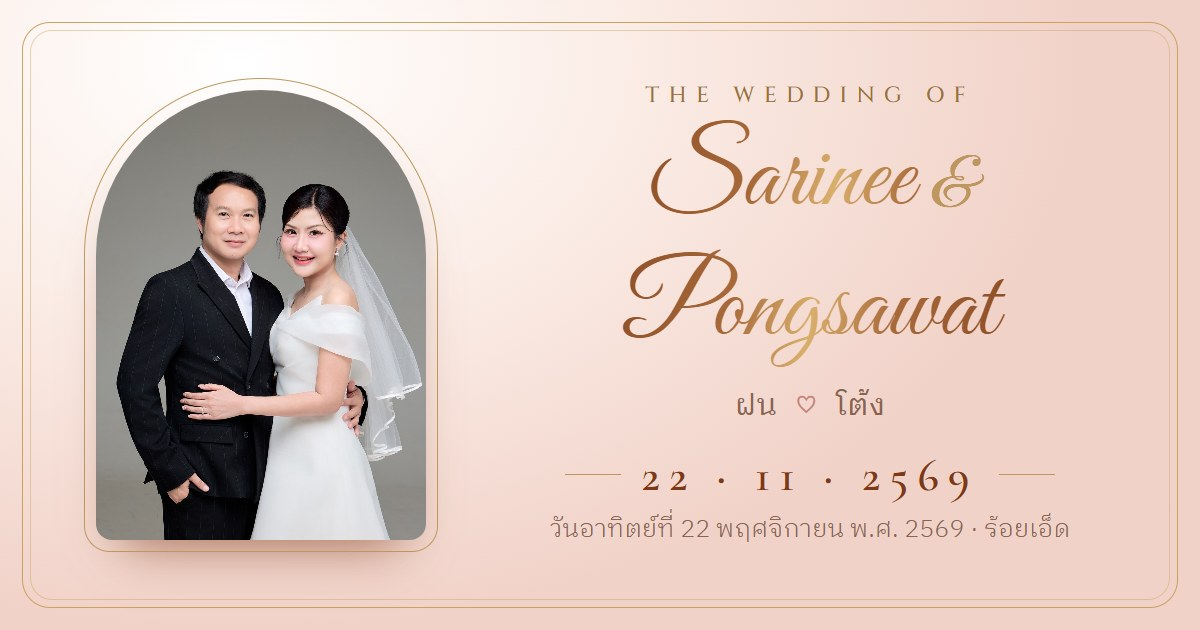
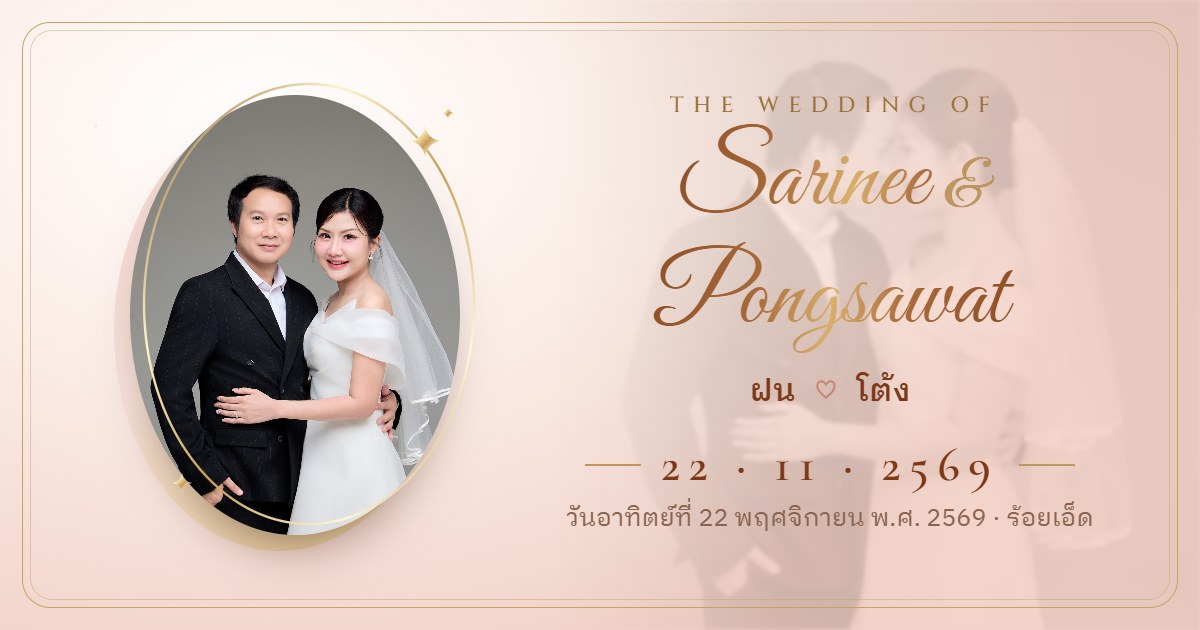
Add files via upload

Changed region(s): [[0.0617, 0.1206, 0.4008, 0.9048], [0.5242, 0.0905, 0.8633, 0.6937], [0.4625, 0.7238, 0.925, 1.0]]

diff --git a/wedding-invitation/design/og-template.html b/wedding-invitation/design/og-template.html
@@ -1,39 +1,68 @@
 <!DOCTYPE html>
-<!-- Source for the link-preview image. Render at 1200x630 and save as assets/images/og.jpg:
-     msedge --headless=new --window-size=1200,630 --screenshot=og.png design/og-template.html -->
+<!-- Source for the link-preview image shown in LINE / Facebook. Render at 1200x630 and save as assets/images/og.jpg
+     (any headless Chromium screenshot works; keep the important content away from the outer 60px — some apps crop) -->
 <html lang="th">
 <head>
 <meta charset="utf-8">
-<link href="https://fonts.googleapis.com/css2?family=Cinzel:wght@500&family=Cormorant+Garamond:wght@600&family=Great+Vibes&family=IBM+Plex+Sans+Thai+Looped:wght@300;400&display=block" rel="stylesheet">
+<link href="https://fonts.googleapis.com/css2?family=Cinzel:wght@500&family=Cormorant+Garamond:wght@600&family=Great+Vibes&family=IBM+Plex+Sans+Thai+Looped:wght@300;400;500&display=block" rel="stylesheet">
 <style>
   html, body { margin: 0; width: 1200px; height: 630px; overflow: hidden; }
   body {
-    position: relative; display: flex; align-items: center; gap: 64px; padding: 0 70px 0 96px; box-sizing: border-box;
+    position: relative; display: flex; align-items: center; gap: 70px; padding: 0 70px 0 130px; box-sizing: border-box;
     font-family: 'IBM Plex Sans Thai Looped', sans-serif; color: #7D3818;
-    background: radial-gradient(70% 90% at 20% 10%, #FFFFFF 0%, #FBEDE7 45%, #F1D2C8 100%);
+    background: radial-gradient(70% 90% at 22% 20%, #FFFFFF 0%, #FBEDE7 45%, #F1D2C8 100%);
   }
-  body::before { content: ''; position: absolute; inset: 22px; border: 1.5px solid #C9A262; border-radius: 28px; }
-  body::after { content: ''; position: absolute; inset: 30px; border: 1px solid rgba(201, 162, 98, .45); border-radius: 22px; }
-  .arch { position: relative; flex: none; width: 330px; height: 450px; }
-  .arch::before { content: ''; position: absolute; inset: -12px; border: 1.5px solid #BE975E; border-radius: 177px 177px 26px 26px; }
-  .arch img { width: 100%; height: 100%; object-fit: cover; object-position: 50% 24%; border-radius: 165px 165px 16px 16px; display: block; box-shadow: 0 30px 50px -26px rgba(125, 56, 24, .7); }
-  .panel { flex: 1; display: flex; flex-direction: column; align-items: center; gap: 6px; text-align: center; }
-  .eyebrow { font-family: 'Cinzel', serif; font-weight: 500; font-size: 22px; letter-spacing: .42em; color: #9A7038; }
+  /* faint photo wash on the right, like the opening screen */
+  .wash { position: absolute; inset: 0 0 0 46%; background: url(../assets/couple/003.jpg) 50% 25% / cover; mix-blend-mode: luminosity; opacity: .14; filter: blur(2px);
+    -webkit-mask-image: linear-gradient(90deg, transparent, #000 35%); mask-image: linear-gradient(90deg, transparent, #000 35%); }
+  .frame { position: absolute; inset: 22px; border: 1.5px solid #C9A262; border-radius: 28px; }
+  .frame::after { content: ''; position: absolute; inset: 7px; border: 1px solid rgba(201, 162, 98, .45); border-radius: 22px; }
+  .dust { position: absolute; inset: 0; background:
+    radial-gradient(2px 2px at 8% 20%, #E8C77E, transparent 60%), radial-gradient(1.5px 1.5px at 38% 12%, #F6E3B0, transparent 60%),
+    radial-gradient(2.5px 2.5px at 92% 18%, #E8C77E, transparent 60%), radial-gradient(1.5px 1.5px at 58% 88%, #F6E3B0, transparent 60%),
+    radial-gradient(2px 2px at 84% 80%, #E8C77E, transparent 60%), radial-gradient(1.5px 1.5px at 12% 86%, #F6E3B0, transparent 60%); }
+
+  /* layered oval portrait — same as the card cover */
+  .portrait { position: relative; flex: none; width: 330px; height: 440px; }
+  .portrait::before { content: ''; position: absolute; inset: 0; border-radius: 50%; transform: translate(-16px, 16px);
+    background: linear-gradient(150deg, #F2D2C8 0%, #F8E3DD 45%, #E8CF95 100%); }
+  .portrait img { position: relative; width: 100%; height: 100%; object-fit: cover; object-position: 50% 22%; border-radius: 50%; display: block;
+    box-shadow: 0 30px 50px -24px rgba(74, 36, 20, .6); }
+  .portrait svg { position: absolute; left: -40px; top: -40px; width: 410px; height: 520px; overflow: visible; }
+
+  .panel { position: relative; flex: 1; display: flex; flex-direction: column; align-items: center; gap: 4px; text-align: center; }
+  .eyebrow { font-family: 'Cinzel', serif; font-weight: 500; font-size: 22px; letter-spacing: .42em; padding-left: .42em; color: #9A7038; }
   .names {
-    font-family: 'Great Vibes', cursive; font-size: 104px; line-height: 1.25; padding: 0 12px;
+    font-family: 'Great Vibes', cursive; font-size: 98px; line-height: 1.2; padding: 0 14px;
     background: linear-gradient(100deg, #6E2F12 0%, #A8693A 40%, #D9AF6C 52%, #A8693A 64%, #6E2F12 100%);
     -webkit-background-clip: text; background-clip: text; color: transparent;
   }
-  .names em { font-style: normal; font-size: 70px; color: #BE975E; -webkit-text-fill-color: #BE975E; }
-  .nick { font-size: 30px; font-weight: 400; color: #8A6450; }
+  .names em { font-style: normal; font-size: 66px; color: #BE975E; -webkit-text-fill-color: #BE975E; }
+  .nick { margin-top: 2px; font-size: 32px; font-weight: 500; color: #7D3818; }
   .nick i { font-style: normal; color: #C98476; padding: 0 12px; }
-  .date { margin-top: 10px; display: flex; align-items: center; gap: 20px; font-family: 'Cormorant Garamond', serif; font-weight: 600; font-size: 46px; letter-spacing: .2em; }
+  .date { margin-top: 14px; display: flex; align-items: center; gap: 20px; font-family: 'Cormorant Garamond', serif; font-weight: 600; font-size: 48px; letter-spacing: .18em; color: #7D3818; }
   .date::before, .date::after { content: ''; width: 56px; height: 1.5px; background: #BE975E; }
-  .th { font-weight: 300; font-size: 25px; color: #8A6450; }
+  .th { font-weight: 400; font-size: 25px; color: #8A6450; }
 </style>
 </head>
 <body>
-  <div class="arch"><img src="../assets/couple/002.jpg" alt=""></div>
+  <div class="wash"></div>
+  <div class="dust"></div>
+  <div class="frame"></div>
+  <div class="portrait">
+    <img src="../assets/couple/002.jpg" alt="">
+    <svg viewBox="0 0 410 520" aria-hidden="true">
+      <defs>
+        <linearGradient id="gold" x1="0" y1="0" x2="1" y2="1">
+          <stop offset="0" stop-color="#8A5A24"/><stop offset=".3" stop-color="#FFF3CC"/><stop offset=".55" stop-color="#C99D55"/><stop offset=".8" stop-color="#FFF6DA"/><stop offset="1" stop-color="#A87838"/>
+        </linearGradient>
+      </defs>
+      <ellipse cx="219" cy="249" rx="165" ry="220" fill="none" stroke="url(#gold)" stroke-width="2.4"/>
+      <path fill="url(#gold)" d="M335 70 Q337 84 351 86 Q337 88 335 102 Q333 88 319 86 Q333 84 335 70 Z"/>
+      <path fill="url(#gold)" d="M358 52 Q359 57 364 58 Q359 59 358 64 Q357 59 352 58 Q357 57 358 52 Z"/>
+      <path fill="url(#gold)" d="M92 418 Q93 427 102 428 Q93 429 92 438 Q91 429 82 428 Q91 427 92 418 Z"/>
+    </svg>
+  </div>
   <div class="panel">
     <div class="eyebrow">THE WEDDING OF</div>
     <div class="names">Sarinee <em>&amp;</em> Pongsawat</div>

diff --git a/wedding-invitation/index.html b/wedding-invitation/index.html
@@ -9,7 +9,19 @@
 <meta property="og:type" content="website">
 <meta property="og:title" content="Sarinee &amp; Pongsawat · ฝน &amp; โต้ง · 22.11.2569">
 <meta property="og:description" content="ขอเรียนเชิญร่วมเป็นเกียรติในงานฉลองมงคลสมรส ฝน &amp; โต้ง · วันอาทิตย์ที่ 22 พฤศจิกายน 2569 · ร้อยเอ็ด">
-<!-- เมื่อมีที่อยู่เว็บจริงแล้ว ให้เพิ่ม og:url และ og:image (ต้องเป็น URL เต็ม ชี้ไปที่ assets/images/og.jpg) -->
+<meta property="og:site_name" content="Sarinee &amp; Pongsawat Wedding">
+<meta property="og:locale" content="th_TH">
+<!-- og:site — เขียนโดย tools/set_site_url.py (อย่าแก้ด้วยมือ) -->
+<meta property="og:url" content="https://tongfonsarinee.github.io/fon-tong_wedding/">
+<meta property="og:image" content="https://tongfonsarinee.github.io/fon-tong_wedding/assets/images/og.jpg?v=c6ca23e4">
+<meta property="og:image:secure_url" content="https://tongfonsarinee.github.io/fon-tong_wedding/assets/images/og.jpg?v=c6ca23e4">
+<meta property="og:image:type" content="image/jpeg">
+<meta property="og:image:width" content="1200">
+<meta property="og:image:height" content="630">
+<meta property="og:image:alt" content="ฝนและโต้ง · งานมงคลสมรส 22.11.2569">
+<meta name="twitter:image" content="https://tongfonsarinee.github.io/fon-tong_wedding/assets/images/og.jpg?v=c6ca23e4">
+<link rel="canonical" href="https://tongfonsarinee.github.io/fon-tong_wedding/">
+<!-- /og:site -->
 <meta name="twitter:card" content="summary_large_image">
 <link rel="icon" href="assets/brand/favicon.svg" type="image/svg+xml">
 <link rel="alternate icon" href="assets/brand/favicon.png" type="image/png">
@@ -19,13 +31,13 @@
 <link rel="preconnect" href="https://fonts.gstatic.com" crossorigin>
 <link href="https://fonts.googleapis.com/css2?family=Cinzel:wght@400;500;600&family=Cormorant+Garamond:ital,wght@0,400;0,500;0,600;1,400;1,500&family=Great+Vibes&family=IBM+Plex+Sans+Thai+Looped:wght@200;300;400;500;600&display=swap" rel="stylesheet">
 <link rel="preload" as="image" href="assets/couple/002.jpg">
-<link rel="stylesheet" href="css/base.css?v=202610051414">
-<link rel="stylesheet" href="css/intro.css?v=202610051414">
-<link rel="stylesheet" href="css/hero.css?v=202610051414">
-<link rel="stylesheet" href="css/sections.css?v=202610051414">
-<link rel="stylesheet" href="css/gallery.css?v=202610051414">
-<link rel="stylesheet" href="css/effects.css?v=202610051414">
-<link rel="stylesheet" href="css/features.css?v=202610051414">
+<link rel="stylesheet" href="css/base.css?v=202610051431">
+<link rel="stylesheet" href="css/intro.css?v=202610051431">
+<link rel="stylesheet" href="css/hero.css?v=202610051431">
+<link rel="stylesheet" href="css/sections.css?v=202610051431">
+<link rel="stylesheet" href="css/gallery.css?v=202610051431">
+<link rel="stylesheet" href="css/effects.css?v=202610051431">
+<link rel="stylesheet" href="css/features.css?v=202610051431">
 </head>
 <body>
 <!-- Shared SVG: gradients + ornaments (laurel with heart, corner flourish) -->
@@ -536,25 +548,25 @@
   <div class="lightbox__count"></div>
 </div>
 
-<script src="js/config.js?v=202610051414"></script>
-<script src="js/guest.js?v=202610051414"></script>
-<script src="js/api.js?v=202610051414"></script>
-<script src="js/audio.js?v=202610051414"></script>
-<script src="js/motion.js?v=202610051414"></script>
-<script src="js/dayof.js?v=202610051414"></script>
-<script src="js/countdown.js?v=202610051414"></script>
-<script src="js/scroll.js?v=202610051414"></script>
-<script src="js/particles.js?v=202610051414"></script>
-<script src="js/intro.js?v=202610051414"></script>
-<script src="js/handwriting.js?v=202610051414"></script>
-<script src="js/gallery.js?v=202610051414"></script>
-<script src="js/book.js?v=202610051414"></script>
-<script src="js/scratch.js?v=202610051414"></script>
-<script src="js/effects.js?v=202610051414"></script>
-<script src="js/lanterns.js?v=202610051414"></script>
-<script src="js/gift.js?v=202610051414"></script>
-<script src="js/booth-photo.js?v=202610051414"></script>
-<script src="js/booth.js?v=202610051414"></script>
-<script src="js/dock.js?v=202610051414"></script>
+<script src="js/config.js?v=202610051431"></script>
+<script src="js/guest.js?v=202610051431"></script>
+<script src="js/api.js?v=202610051431"></script>
+<script src="js/audio.js?v=202610051431"></script>
+<script src="js/motion.js?v=202610051431"></script>
+<script src="js/dayof.js?v=202610051431"></script>
+<script src="js/countdown.js?v=202610051431"></script>
+<script src="js/scroll.js?v=202610051431"></script>
+<script src="js/particles.js?v=202610051431"></script>
+<script src="js/intro.js?v=202610051431"></script>
+<script src="js/handwriting.js?v=202610051431"></script>
+<script src="js/gallery.js?v=202610051431"></script>
+<script src="js/book.js?v=202610051431"></script>
+<script src="js/scratch.js?v=202610051431"></script>
+<script src="js/effects.js?v=202610051431"></script>
+<script src="js/lanterns.js?v=202610051431"></script>
+<script src="js/gift.js?v=202610051431"></script>
+<script src="js/booth-photo.js?v=202610051431"></script>
+<script src="js/booth.js?v=202610051431"></script>
+<script src="js/dock.js?v=202610051431"></script>
 </body>
 </html>

diff --git a/wedding-invitation/js/intro.js b/wedding-invitation/js/intro.js
@@ -1,8 +1,7 @@
 // Opening screen. Tap the wax seal (or the button):
 //   seal cracks (music + sound + haptics start) → flap opens → letter rises
 //   → gold dust gathers into the S·P monogram and bursts into petals (js/particles.js)
-//   → 6-second cinematic photo trailer → fly into the card.
-// Returning guests get the short version (envelope → card). "ข้าม" skips at any point.
+//   → 6-second cinematic photo trailer → fly into the card. Plays in full on every visit; "ข้าม" skips it.
 (function () {
   'use strict';
 
@@ -15,14 +14,13 @@
   var PETAL_LIGHT_RATIO = 0.4;
   var GOLD_DUST_COUNT = 14;
   var CARD_THEME_COLOR = '#F3D5CC';
-  var SEEN_KEY = 'ecard-seen';
 
   // ms after the tap — each step matches a transition in css/intro.css
   var STEP_FLAP_OPEN = 380;
   var STEP_FLAP_BEHIND = 780;  // flap has passed vertical: tuck it behind the letter
   var STEP_LETTER_OUT = 820;
   var STEP_MAGIC = 1650;       // first visit: gold dust rises out of the letter
-  var STEP_SHORT_FLY = 1950;   // returning visit: straight into the card
+  var STEP_SHORT_FLY = 1950;   // no particle support: straight into the card
   var SHOT_MS = 1150;          // each cinematic shot
   var TITLE_MS = 1700;         // closing title card
   var REMOVE_AFTER_FLY_MS = 900; // .intro opacity/transform transition
@@ -113,13 +111,6 @@
     startPetals();
   }
 
-  function hasSeen() {
-    try { return localStorage.getItem(SEEN_KEY) === '1'; } catch (e) { return false; }
-  }
-  function markSeen() {
-    try { localStorage.setItem(SEEN_KEY, '1'); } catch (e) { /* private mode */ }
-  }
-
   function initIntro() {
     var intro = document.getElementById('intro');
     var openBtn = document.getElementById('intro-open');
@@ -140,7 +131,7 @@
       spawn(sky, GLINT_COUNT, makeGlint);
     }
 
-    var shortVersion = hasSeen() || reduceMotion || !window.EcardParticles || !dust || !cinema;
+    var shortVersion = reduceMotion || !window.EcardParticles || !dust || !cinema;
     var shots = cinema ? Array.prototype.slice.call(cinema.querySelectorAll('.cinema__shot')) : [];
 
     // load the trailer photos while the guest looks at the envelope
@@ -171,7 +162,6 @@
       flown = true;
       timers.forEach(clearTimeout);
       if (particles) particles.stop();
-      markSeen();
       intro.classList.add('is-opening');
       var themeMeta = document.querySelector('meta[name="theme-color"]');
       if (themeMeta) themeMeta.setAttribute('content', CARD_THEME_COLOR);

diff --git a/wedding-invitation/tools/set_site_url.py b/wedding-invitation/tools/set_site_url.py
@@ -1,0 +1,47 @@
+"""ตั้งที่อยู่เว็บจริงของการ์ด เพื่อให้ส่งลิงก์ใน LINE / Facebook แล้วขึ้นรูปปก (og:image)
+
+    python tools/set_site_url.py https://<ชื่อ>.github.io/<repo>
+
+- เขียนแท็ก og:url / og:image / twitter:image แบบ URL เต็มลงใน index.html (ระหว่าง <!-- og:site --> ... <!-- /og:site -->)
+- ต่อท้ายรูปด้วย ?v=<รหัสของไฟล์> ให้ LINE ดึงรูปใหม่ทุกครั้งที่ assets/images/og.jpg เปลี่ยน
+- รันซ้ำได้ทุกครั้ง (เช่น หลังแก้รูปปก หรือย้ายเว็บ)
+"""
+import hashlib
+import re
+import sys
+from pathlib import Path
+
+OG_IMAGE = 'assets/images/og.jpg'
+OG_W, OG_H = 1200, 630
+
+root = Path(__file__).resolve().parents[1]
+sys.stdout.reconfigure(encoding='utf-8')
+if len(sys.argv) < 2:
+    raise SystemExit('ใส่ที่อยู่เว็บด้วย เช่น  python tools/set_site_url.py https://thonganek.github.io/wedding-fon-tong')
+site = sys.argv[1].strip().rstrip('/')
+if not re.match(r'^https://[^\s/]+', site):
+    raise SystemExit('ที่อยู่เว็บต้องขึ้นต้นด้วย https://  (LINE ไม่แสดงรูปจากเว็บที่ไม่ใช่ https)')
+
+version = hashlib.md5((root / OG_IMAGE).read_bytes()).hexdigest()[:8]
+image = f'{site}/{OG_IMAGE}?v={version}'
+block = f'''<!-- og:site — เขียนโดย tools/set_site_url.py (อย่าแก้ด้วยมือ) -->
+<meta property="og:url" content="{site}/">
+<meta property="og:image" content="{image}">
+<meta property="og:image:secure_url" content="{image}">
+<meta property="og:image:type" content="image/jpeg">
+<meta property="og:image:width" content="{OG_W}">
+<meta property="og:image:height" content="{OG_H}">
+<meta property="og:image:alt" content="ฝนและโต้ง · งานมงคลสมรส 22.11.2569">
+<meta name="twitter:image" content="{image}">
+<link rel="canonical" href="{site}/">
+<!-- /og:site -->'''
+
+page = root / 'index.html'
+html = page.read_text(encoding='utf-8')
+html, found = re.subn(r'<!-- og:site.*?<!-- /og:site -->', lambda m: block, html, flags=re.S)
+if not found:
+    raise SystemExit('index.html: ไม่พบ <!-- og:site --> ... <!-- /og:site -->')
+page.write_text(html, encoding='utf-8', newline='\n')
+print(f'ตั้งที่อยู่เว็บเป็น {site}/')
+print(f'รูปปกพรีวิว: {image}')
+print('หลัง push ขึ้นเว็บแล้ว ถ้า LINE ยังขึ้นรูปเก่า ให้ล้างแคชที่ https://poker.line.naver.jp/')

diff --git a/wedding-invitation/README.md b/wedding-invitation/README.md
@@ -24,7 +24,7 @@
 
 1. **ฉากเปิด** พื้นหลังเป็นรูปคู่บ่าวสาวจางๆ ย้อมโทนชมพูทอง เปลี่ยนรูปทุก 6 วินาที · ซองชมพูผนึกตราครั่ง S·P → แตะตรา: ตราแตก (เสียง + สั่น + หัวใจ/คอนเฟตตี) → ฝาซองเปิด → การ์ดรูปคู่เลื่อนขึ้น
    → ผงทองหมุนเป็นเกลียวรวมเป็นโมโนแกรม S·P → ระเบิดเป็นกลีบดอก → **หนังสั้น 6 วินาที** (รูป 4 ช็อต + แถบดำแบบภาพยนตร์ + ชื่อปิดท้าย) → เข้าการ์ด
-   มีปุ่ม "ข้าม" ตลอด · **คนที่เคยเปิดแล้ว**จะได้ฉบับสั้น (ซอง → การ์ด) อัตโนมัติ
+   เล่นเต็มทุกครั้งที่เปิดการ์ด · มีปุ่ม "ข้าม" ตลอด
 2. **เพลง** กล่องดนตรี Canon in D (สังเคราะห์ในเบราว์เซอร์ ไม่ต้องมีไฟล์) เริ่มตอนแตะตรา · ปุ่มแผ่นเสียงมุมขวาบนเปิด/ปิด · หยุดเองเมื่อสลับแอป
 3. **หน้าปก** รูปทรงวงรี + วงรีสีแชมเปญชมพูวางเยื้องด้านหลัง + เส้นทองวงรีวางเยื้องพาดทับ มีแสงวิ่งรอบเส้น ·  ชื่อเขียนด้วย**หมึกทองทีละตัวอักษร**พร้อมปลายปากกาเรืองแสง (ใต้กรอบรูป)
    **เอียงมือถือ**แล้วภาพมีมิติ (รูป/กรอบ/ประกายขยับคนละระดับ) และตัวอักษรทองสะท้อนแสงตามมุม (iPhone ขออนุญาตตอนแตะตรา · คอมพิวเตอร์ใช้เมาส์)
@@ -129,6 +129,7 @@ wedding-invitation/
     ├── import_photos.py      นำรูปจาก ../Picture เข้าเว็บ + ตั้งหมายเลข
     ├── make_booth_photo.py   สร้างรูปคู่สำหรับกรอบ Photo Booth
     ├── apps-script.gs        โค้ด Google Apps Script สำหรับเก็บคำอวยพร
+    ├── set_site_url.py       ตั้งที่อยู่เว็บจริง → แท็กรูปปกตอนแชร์ลิงก์ (og:image)
     └── bump-version.sh       ใส่เลขเวอร์ชันให้ CSS/JS กันเบราว์เซอร์จำไฟล์เก่า
 ```
 
@@ -148,19 +149,26 @@ wedding-invitation/
 
 ## ขึ้นเว็บ (deploy)
 
-> **ระวัง:** โฟลเดอร์นี้คัดลอกมาจากการ์ดของ อ.ณัท & อ.โจ้ remote `origin` จึงยังชี้ไปที่ `Thonganek/wedding` (repo ของการ์ดคู่นั้น)
-> ถ้า push ตอนนี้ การ์ดของคู่นั้นจะถูกแทนที่ ให้สร้าง repo ใหม่สำหรับการ์ดนี้ก่อน แล้วเปลี่ยน remote:
->
-> ```sh
-> git remote set-url origin https://github.com/<user>/<repo-ใหม่>.git
-> ```
+Repo: https://github.com/tongfonsarinee/fon-tong_wedding (remote `origin`, branch `main`)
+เว็บ: **https://tongfonsarinee.github.io/fon-tong_wedding/**
 
 ```sh
 sh tools/bump-version.sh
 git add -A && git commit -m "..." && git push
 ```
 
-เมื่อได้ที่อยู่เว็บจริงแล้ว ให้เพิ่ม `og:url` และ `og:image` (URL เต็มไปที่ `assets/images/og.jpg`) ใน `<head>` ของ `index.html`
+ครั้งแรก: เปิด GitHub Pages ที่ repo → Settings → Pages → Source: *Deploy from a branch* → Branch `main` / `(root)` → Save
+(รอ 1–2 นาที แล้วเปิดลิงก์ด้านบน)
+
+### รูปปกตอนแชร์ลิงก์ใน LINE / Facebook
+
+- รูปปกคือ `assets/images/og.jpg` (สร้างจาก `design/og-template.html`)
+- แท็ก `og:image` ต้องเป็น URL เต็มของเว็บจริง ตั้งไว้แล้วด้วย
+  `python tools/set_site_url.py https://tongfonsarinee.github.io/fon-tong_wedding`
+  ถ้าย้ายเว็บ หรือแก้รูปปก ให้รันคำสั่งนี้ใหม่ (สคริปต์จะต่อ `?v=` ให้รูปอัตโนมัติ เพื่อให้ LINE ดึงรูปใหม่)
+- LINE จำพรีวิวไว้ ถ้ายังขึ้นรูปเก่า/ไม่ขึ้นรูป ให้ใส่ลิงก์ที่ https://poker.line.naver.jp/ เพื่อล้างแคช
+- พรีวิวจะขึ้นได้ต่อเมื่อเว็บออนไลน์แล้วเท่านั้น (เปิดจากไฟล์ในเครื่องไม่มีผล) และใช้ได้กับลิงก์ใส่ชื่อแขก `?to=` ด้วย
+
 ฟีเจอร์เอียงมือถือและกล้อง Photo Booth ต้องเปิดผ่าน https (GitHub Pages ใช้ https อยู่แล้ว)
 
 ประวัติ git ของการ์ดต้นแบบ (คู่อื่น) เก็บไว้ในเครื่องที่ branch `template-history` และ remote `old-template` เท่านั้น
